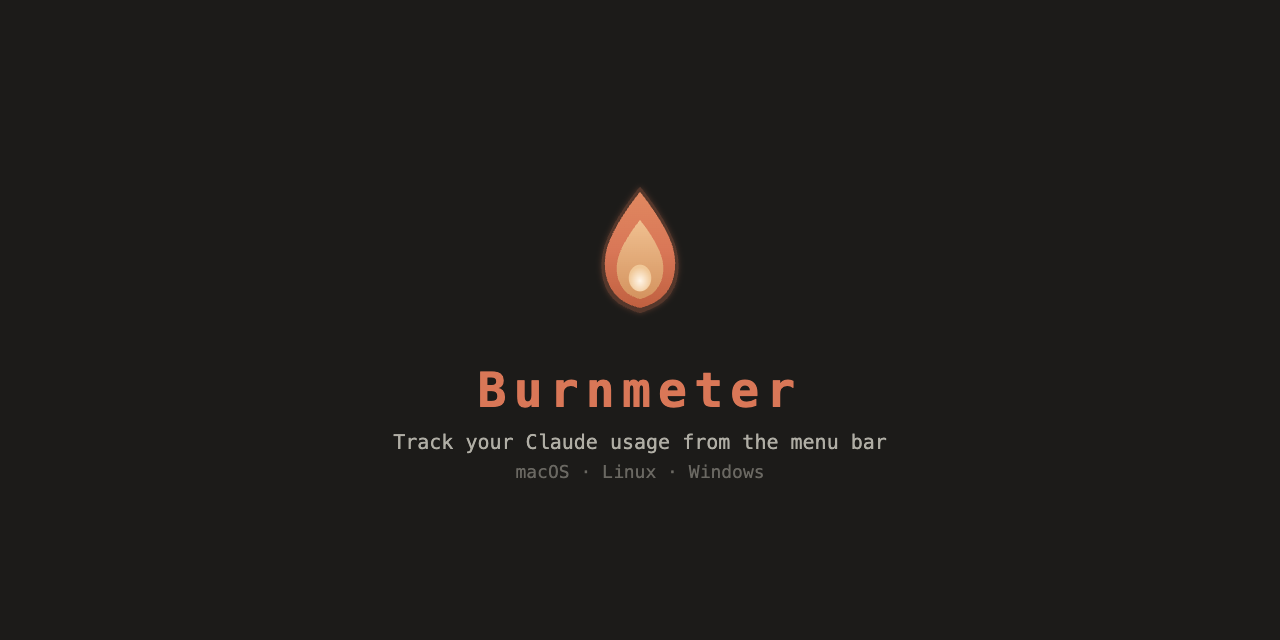
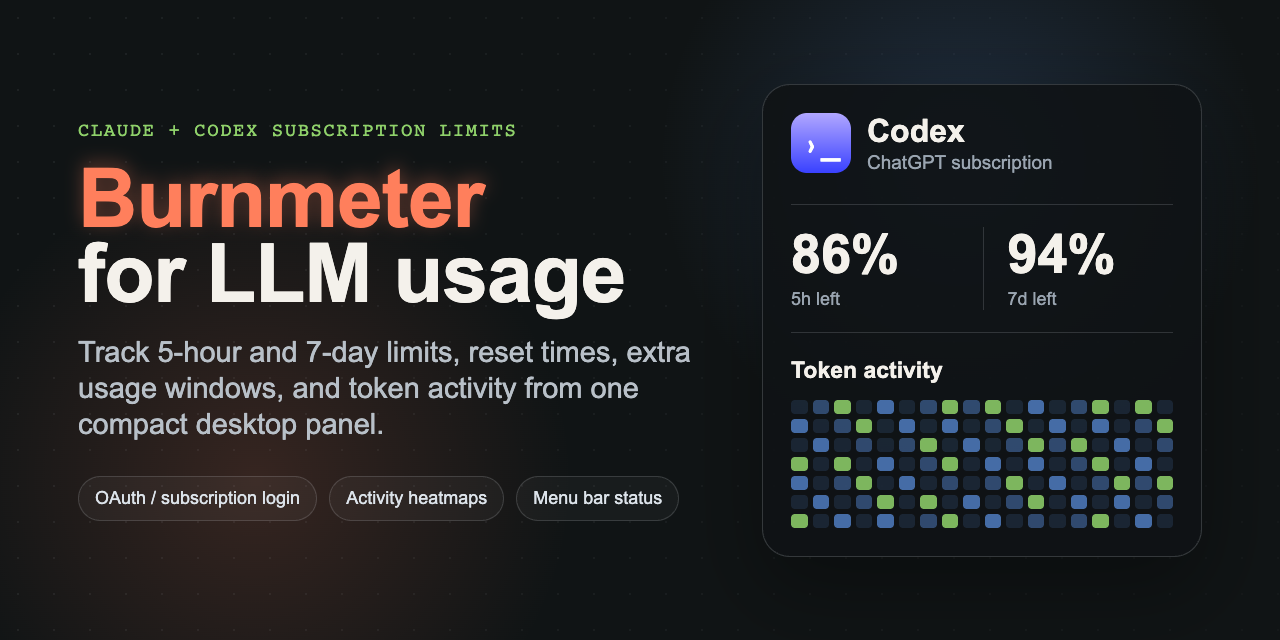
docs: refresh README and screenshots

diff --git a/README.md b/README.md
@@ -4,7 +4,7 @@
 
 # Burnmeter
 
-**Track your Claude and Codex usage limits — right from your menu bar.**
+**Track Claude, Codex, and future LLM subscription limits from one compact desktop panel.**
 
 macOS · Linux · Windows
 
@@ -18,7 +18,12 @@ macOS · Linux · Windows
 
 ## Download
 
-> **Requires:** [Claude Code](https://claude.ai/code) (run `claude login`), [Claude Desktop](https://claude.ai/download) (just sign in), or [Codex CLI](https://developers.openai.com/codex) (run `codex login`).
+> **Note:** packaged releases may lag behind `main`. Build from source for the newest multi-provider UI.
+
+Burnmeter reads local subscription sessions. Sign in with the tools you use:
+
+- [Claude Code](https://claude.ai/code) with `claude login`, or [Claude Desktop](https://claude.ai/download)
+- [Codex CLI](https://developers.openai.com/codex) with `codex login`
 
 | Platform | Download |
 |----------|----------|
@@ -29,33 +34,27 @@ macOS · Linux · Windows
 
 ## Features
 
-- **FREE 2x / PEAK** status with countdown timer
-- Real-time **5-hour** and **7-day** usage percentages for Claude and Codex
-- Provider-specific boost tracking for off-peak promos, reset credits, and extra limits
-- Local token activity heatmaps with lifetime, peak, task, and streak stats
-- Automatic timezone detection — peak hours in your local time
-- Weekend detection — all day 2x bonus on weekends
-- Menu bar shows compact provider limits like `Cl 84·91 Cd 72·88`
-- Right-click to quit
+- Real-time **5-hour** and **7-day** subscription windows for Claude and Codex
+- Collapsible provider cards so multiple subscriptions fit in the same panel
+- Provider-specific boost tracking for off-peak promos, reset credits, and higher temporary limits
+- Local token activity heatmaps with lifetime usage, peak day, longest task, and streak stats
+- Settings panel for connected, missing, limited, or offline providers
+- Menu bar status summarizing the tightest remaining provider limit
+- Support for future LLM providers without redesigning the main view
 
 ## How it works
 
-1. Reads your local OAuth tokens from Claude Code, Claude Desktop, or Codex CLI — **read-only**
-2. Polls Anthropic and Codex usage endpoints every 60s
-3. Aggregates local Claude Code and Codex session history for token activity
-4. Calculates peak/off-peak from IANA `America/Los_Angeles`
-5. Converts to your local timezone automatically
+1. Reads local OAuth/subscription credentials from Claude Code, Claude Desktop, or Codex CLI — **read-only**
+2. Polls provider usage endpoints every 60 seconds
+3. Keeps failed or disconnected providers in Settings instead of crowding the main page
+4. Aggregates local Claude and Codex history for activity heatmaps
+5. Shows reset times, extra usage windows, and active provider boosts in your local timezone
 
-## Promotion details
+## Extra Usage Windows
 
-**March 13–27, 2026** — Anthropic doubles usage during off-peak hours:
+Some providers expose temporary higher limits, reset credits, or off-peak multipliers. Burnmeter models those as provider boosts so the main usage card can show both the normal limits and any extra capacity currently available.
 
-| | Hours (Pacific) | Your tokens |
-|---|---|---|
-| **Peak** | 5–11 AM, weekdays | Standard rate |
-| **Off-peak** | Everything else + weekends | 2x bonus |
-
-Eligible: Free, Pro, Max, Team plans.
+Claude off-peak periods, Codex model-specific limits, and future provider promotions should all appear in the same boost area when available from the provider or local history.
 
 ## Tech stack
 